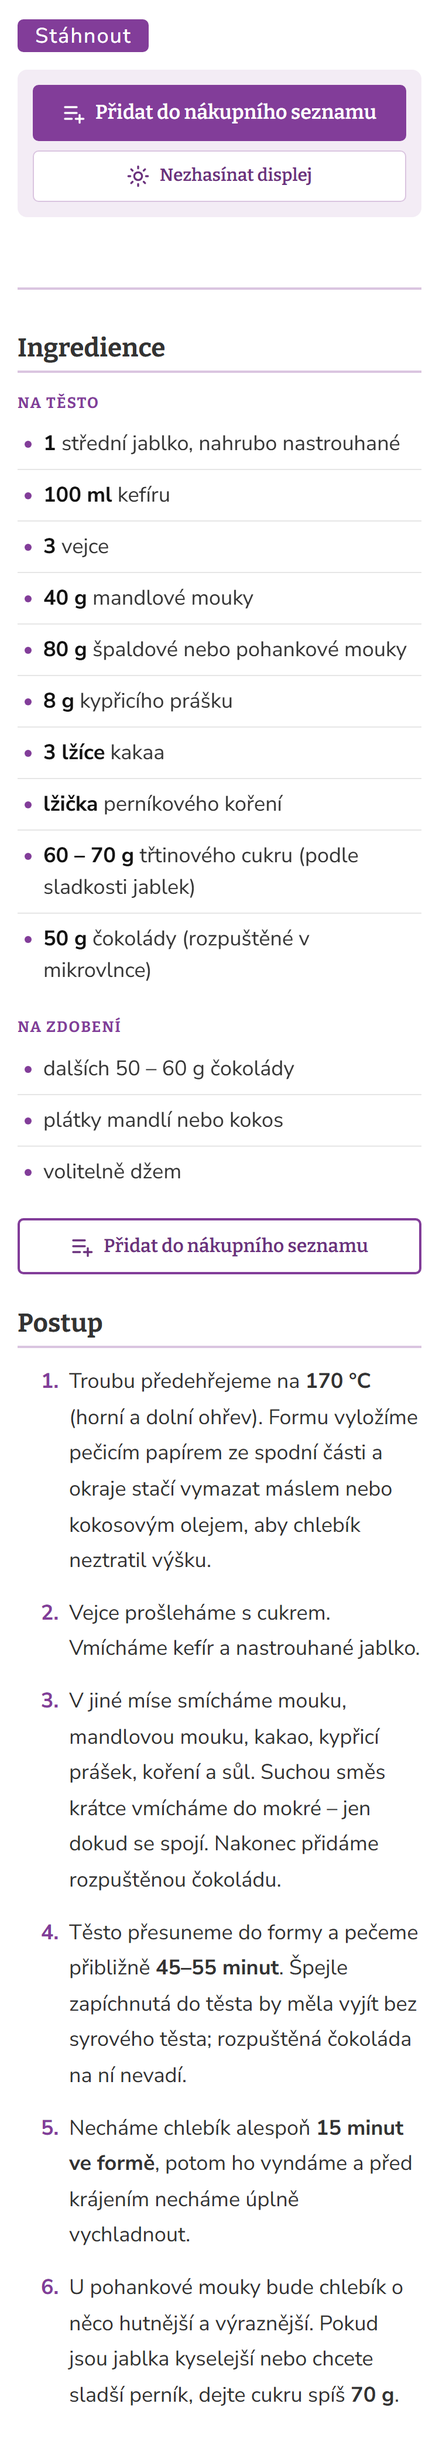
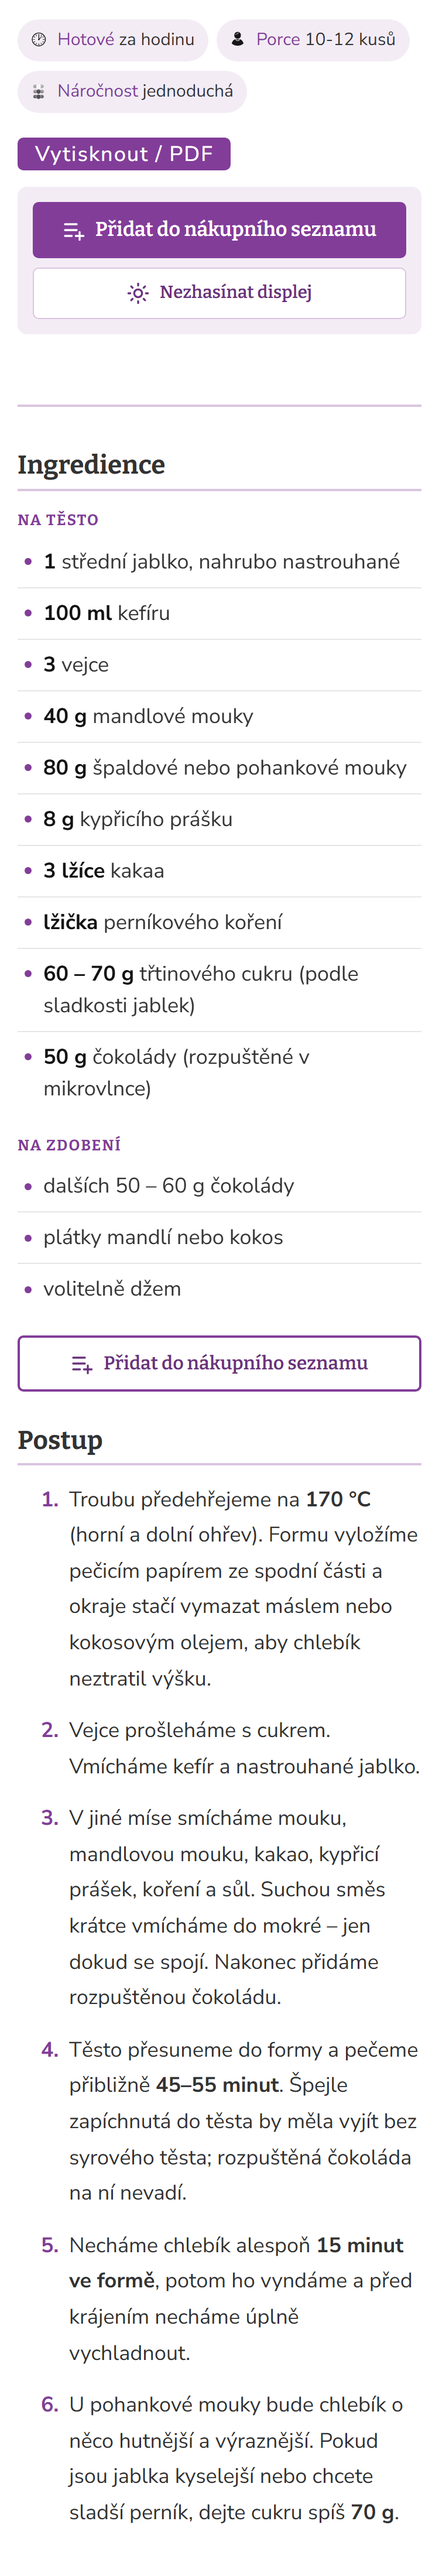
Náhled verze 1.0: kompaktní řádek, Vytisknout / PDF, odpovědi Týnky

diff --git a/index.html b/index.html
@@ -142,31 +142,31 @@ footer { margin-top: 56px; padding-top: 20px; border-top: 1px solid var(--line);
         <p class="step-no">1 · Recept</p>
         <h2 id="h-karta">Přehlednější karta receptu</h2>
         <ul class="points">
-          <li>Nadpisy „Ingredience“ a „Postup“ budou u všech receptů stejně velké.</li>
-          <li>Skupiny jako „Na těsto“ budou výraznější, množství tučně a kroky postupu dostanou fialová čísla.</li>
+          <li>Údaje Hotové za, Porce a Náročnost jsou v jednom kompaktním řádku.</li>
+          <li>Nadpisy „Ingredience“ a „Postup“ jsou u všech receptů stejně velké.</li>
+          <li>Skupiny jako „Na těsto“ jsou výraznější, množství tučně a kroky postupu mají fialová čísla.</li>
           <li>Na počítači se dlouhé seznamy surovin rozdělí do dvou sloupců.</li>
-          <li>Tlačítko „Stáhnout“ (tisk) funguje dál a nová tlačítka se do tisku nedostanou.</li>
-          <li>Nový vzhled karet zapnu, až ho schválíš. Nákupní seznam funguje i bez něj.</li>
+          <li>Tlačítko tisku se jmenuje „Vytisknout / PDF“ a funguje stejně jako dřív. Nová tlačítka se do tisku nedostanou.</li>
         </ul>
       </div>
       <div class="pair mob only-mob">
         <figure>
           <figcaption><span class="tag">Dnes</span> Kakaový perník s jablky</figcaption>
-          <div class="shot" tabindex="0" aria-label="Recept dnes, mobil (posouvatelný náhled)"><img src="img/1-recept-pred-mobil.png" alt="Dnešní karta receptu Kakaový perník s jablky na mobilu: nadpis Ingredience, skupiny Na těsto a Na zdobení jako drobný text, seznam surovin a číslovaný postup." loading="lazy" width="750" height="3076"></div>
+          <div class="shot" tabindex="0" aria-label="Recept dnes, mobil (posouvatelný náhled)"><img src="img/1-recept-pred-mobil.png" alt="Dnešní karta receptu Kakaový perník s jablky na mobilu: údaje Hotové za, Porce a Náročnost pod sebou, tlačítko Stáhnout, nadpis Ingredience, skupiny Na těsto a Na zdobení jako drobný text, seznam surovin a číslovaný postup." loading="lazy" width="750" height="3804"></div>
         </figure>
         <figure>
           <figcaption><span class="tag po">Nově</span> Kakaový perník s jablky</figcaption>
-          <div class="shot" tabindex="0" aria-label="Recept nově, mobil (posouvatelný náhled)"><img src="img/2-recept-po-mobil.png" alt="Nová karta receptu na mobilu: fialové tlačítko Přidat do nákupního seznamu pod tlačítkem Stáhnout, tučná množství, fialové nadpisy skupin a fialová čísla kroků." loading="lazy" width="750" height="4206"></div>
+          <div class="shot" tabindex="0" aria-label="Recept nově, mobil (posouvatelný náhled)"><img src="img/2-recept-po-mobil.png" alt="Nová karta receptu na mobilu: kompaktní řádek s údaji, tlačítko Vytisknout / PDF, pod ním fialové tlačítko Přidat do nákupního seznamu, tučná množství, fialové nadpisy skupin a fialová čísla kroků." loading="lazy" width="750" height="4400"></div>
         </figure>
       </div>
       <div class="pair desk only-desk">
         <figure>
           <figcaption><span class="tag">Dnes</span> Kakaový perník s jablky</figcaption>
-          <div class="shot" tabindex="0" aria-label="Recept dnes, počítač (posouvatelný náhled)"><img src="img/1-recept-pred-pocitac.png" alt="Dnešní karta receptu na počítači: suroviny v jednom dlouhém sloupci." loading="lazy" width="1280" height="1076"></div>
+          <div class="shot" tabindex="0" aria-label="Recept dnes, počítač (posouvatelný náhled)"><img src="img/1-recept-pred-pocitac.png" alt="Dnešní karta receptu na počítači: suroviny v jednom dlouhém sloupci." loading="lazy" width="1280" height="1342"></div>
         </figure>
         <figure>
           <figcaption><span class="tag po">Nově</span> Kakaový perník s jablky</figcaption>
-          <div class="shot" tabindex="0" aria-label="Recept nově, počítač (posouvatelný náhled)"><img src="img/2-recept-po-pocitac.png" alt="Nová karta receptu na počítači: suroviny ve dvou sloupcích, tlačítka Přidat do nákupního seznamu a Nezhasínat displej." loading="lazy" width="1280" height="1370"></div>
+          <div class="shot" tabindex="0" aria-label="Recept nově, počítač (posouvatelný náhled)"><img src="img/2-recept-po-pocitac.png" alt="Nová karta receptu na počítači: suroviny ve dvou sloupcích, tlačítka Přidat do nákupního seznamu a Nezhasínat displej." loading="lazy" width="1280" height="1426"></div>
         </figure>
       </div>
     </section>
@@ -227,7 +227,7 @@ footer { margin-top: 56px; padding-top: 20px; border-top: 1px solid var(--line);
         </figure>
         <figure>
           <figcaption>Během nákupu <small>3 položky odklepnuté</small></figcaption>
-          <div class="shot" tabindex="0" aria-label="Seznam během nákupu, mobil (posouvatelný náhled)"><img src="img/7-seznam-odskrtane-mobil.png" alt="Nákupní seznam se zbývajícími 18 položkami a sbalenou sekcí Koupeno (3) dole." loading="lazy" width="750" height="5444"></div>
+          <div class="shot" tabindex="0" aria-label="Seznam během nákupu, mobil (posouvatelný náhled)"><img src="img/7-seznam-odskrtane-mobil.png" alt="Nákupní seznam se zbývajícími 18 položkami a sbalenou sekcí Koupeno (3) dole." loading="lazy" width="750" height="5476"></div>
         </figure>
       </div>
       <div class="pair desk only-desk">
@@ -253,32 +253,36 @@ footer { margin-top: 56px; padding-top: 20px; border-top: 1px solid var(--line);
       </div>
       <div class="cards">
         <div class="card">
-          <h3>Spuštění</h3>
-          <p>Jakmile mi dáš roli Správce, nainstaluju plugin, vytvořím stránku Nákupní seznam a přidám ji do menu. Zabere to asi 20 minut. Pak to spolu vyzkoušíme na telefonu na pár receptech.</p>
-          <p class="note">Kdyby se ti cokoliv nelíbilo, jde to v Nastavení → Nákupní seznam vypnout jedním kliknutím, celé nebo jen po částech.</p>
+          <h3>Podle tvých odpovědí</h3>
+          <ul>
+            <li>Nový vzhled karet receptů je zapnutý.</li>
+            <li>Řádek Hotové za · Porce · Náročnost je zmenšený do jednoho kompaktního řádku.</li>
+            <li>Tlačítko „Stáhnout“ se jmenuje „Vytisknout / PDF“. Samotné recepty se kvůli tomu nemění.</li>
+          </ul>
+          <p class="note">Každou z těch změn jde kdykoliv vypnout v Nastavení → Nákupní seznam.</p>
         </div>
         <div class="card">
-          <h3>Na co se tě chci zeptat</h3>
-          <ul>
-            <li>Mám zapnout nový vzhled karet receptů?</li>
-            <li>Chceš řádek Hotové za / Porce / Náročnost zmenšit do jednoho kompaktního řádku? „Náročnost jednoduchá“ máš u všech 172 receptů stejnou.</li>
-            <li>Nepřejmenujeme „Stáhnout“ na „Vytisknout / PDF“? To tlačítko ve skutečnosti otevírá tisk.</li>
-          </ul>
+          <h3>Spuštění</h3>
+          <p>Plugin nainstaluju, vytvořím stránku Nákupní seznam a přidám ji do menu. Zabere to asi 20 minut. Pak to spolu vyzkoušíme na telefonu na pár receptech.</p>
+        </div>
+        <div class="card">
+          <h3>Drobnost v receptech</h3>
+          <p>U 7 receptů je postup mimo část, kterou tiskne „Vytisknout / PDF“, takže se z nich vytisknou jen suroviny. Pošlu ti jejich seznam a ukážu, jak to v editoru opravit.</p>
         </div>
         <div class="card">
           <h3>Soukromí čtenářek</h3>
           <p>Nikdo se nemusí registrovat a nic se nesleduje ani neposílá jinam. Seznam zůstává jen v telefonu nebo počítači čtenářky. Když web otevře přímo z Instagramu, stránka jí připomene, ať si seznam pošle přes „Sdílet“, protože v běžném prohlížeči by ho pak nenašla.</p>
         </div>
         <div class="card">
-          <h3>Později</h3>
-          <p>Jídelníček na týden přidám ve druhé fázi. Seznam je postavený tak, aby se na něj dal napojit bez předělávání.</p>
+          <h3>Další krok: jídelníček na týden</h3>
+          <p>Seznam je postavený tak, aby se na něj jídelníček dal napojit bez předělávání. Návrh, jak by plánování fungovalo, ti pošlu stejně jako tenhle náhled.</p>
         </div>
       </div>
     </section>
   </main>
 
   <footer>
-    <p class="note">Ondřej · testovací verze pluginu 0.9.0 · náhledy na šířce 375 px (mobil) a 1280 px (počítač)</p>
+    <p class="note">Ondřej · verze pluginu 1.0.0 · náhledy na šířce 375 px (mobil) a 1280 px (počítač)</p>
   </footer>
 </div>
 
